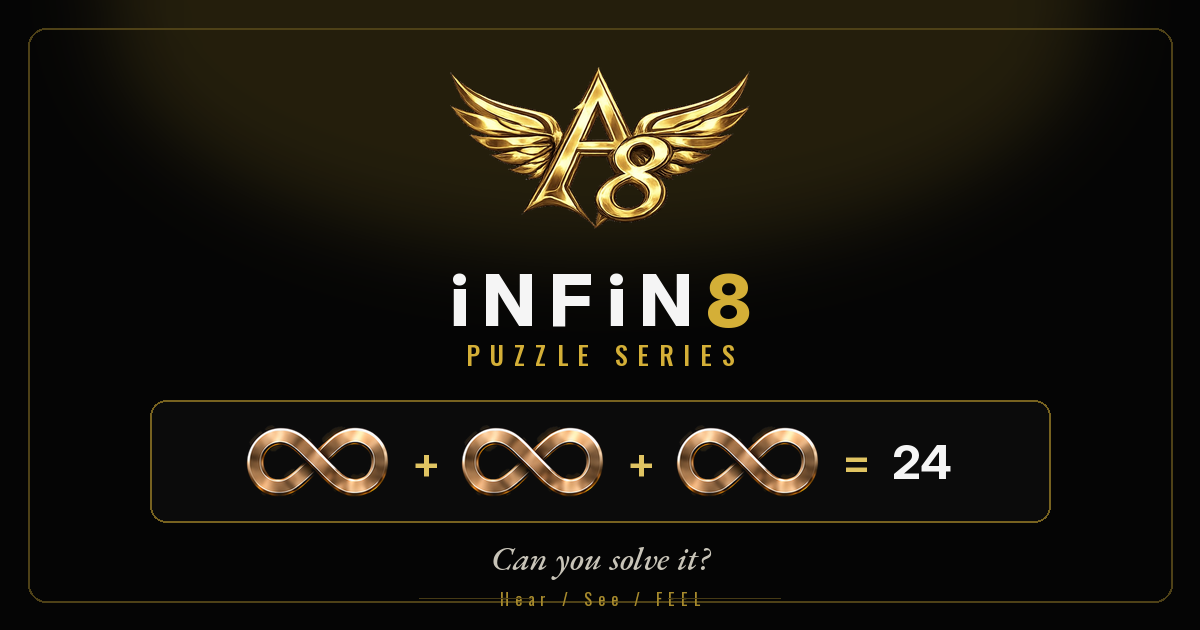
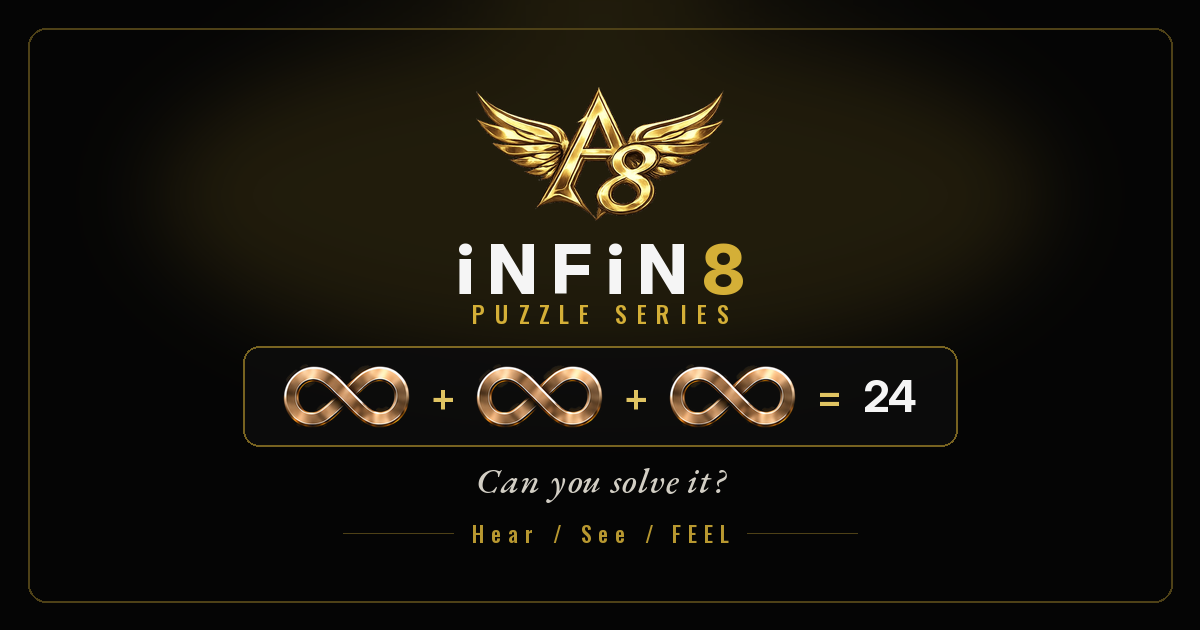
Preview: even out the share-card layout and cache-bust the image (?v=2)
Center the stack in the frame with equal top and bottom margins, consistent
gaps, and the footer clear of the gold border.

diff --git a/index.html b/index.html
@@ -13,7 +13,7 @@
     <!-- Preview share card. Switch these URLs to the live root before a production deploy. -->
     <meta property="og:title" content="iNFiN8 Puzzle Series" />
     <meta property="og:description" content="Can you solve it? New brain puzzles every round by DJ ALEVY8." />
-    <meta property="og:image" content="https://alevy8-hub.github.io/infin8-puzzle/preview-share/og-share.png" />
+    <meta property="og:image" content="https://alevy8-hub.github.io/infin8-puzzle/preview-share/og-share.png?v=2" />
     <meta property="og:image:width" content="1200" />
     <meta property="og:image:height" content="630" />
     <meta property="og:image:type" content="image/png" />
@@ -23,7 +23,7 @@
     <meta name="twitter:card" content="summary_large_image" />
     <meta name="twitter:title" content="iNFiN8 Puzzle Series" />
     <meta name="twitter:description" content="Can you solve it? New brain puzzles every round by DJ ALEVY8." />
-    <meta name="twitter:image" content="https://alevy8-hub.github.io/infin8-puzzle/preview-share/og-share.png" />
+    <meta name="twitter:image" content="https://alevy8-hub.github.io/infin8-puzzle/preview-share/og-share.png?v=2" />
   </head>
   <body>
     <div id="root"></div>

diff --git a/scripts/make-og-share.py b/scripts/make-og-share.py
@@ -6,11 +6,19 @@ from pathlib import Path
 from PIL import Image, ImageDraw, ImageFilter, ImageFont
 
 W, H = 1200, 630
-BG = (5, 5, 5, 255)
+BG = (5, 5, 5)
 GOLD = (212, 175, 55, 255)
 GOLD_SOFT = (224, 196, 98, 255)
 CREAM = (245, 245, 245, 255)
-CREAM_DIM = (200, 196, 184, 255)
+CREAM_DIM = (210, 206, 196, 255)
+
+# Frame inset and minimum clear space inside it (also keeps content in X's center-safe area)
+FRAME = 28
+FRAME_W = 2
+CLEAR = 40  # min px from the inner edge of the gold border
+INNER_TOP = FRAME + FRAME_W + CLEAR  # 70
+INNER_BOTTOM = H - FRAME - FRAME_W - CLEAR  # 560
+INNER_H = INNER_BOTTOM - INNER_TOP  # 490
 
 ROOT = Path("/workspace/infin8-puzzle")
 LOGO = Path("/workspace/music/a8-master-logo-clean.png")
@@ -21,8 +29,13 @@ INTER = "/usr/share/fonts/truetype/sand-box/google/Inter/Inter-VariableFont_opsz
 GARAMOND = "/usr/share/fonts/truetype/sand-box/google/EB Garamond/EBGaramond-Italic-VariableFont_wght.ttf"
 OSWALD = "/usr/share/fonts/truetype/sand-box/google/Oswald/Oswald-VariableFont_wght.ttf"
 
+# Consistent gap between major blocks; tighter gap inside the wordmark + series pair
+GAP = 22
+PAIR_GAP = 10
+BOX_PAD_Y = 18
 
-def var_font(path: str, size: int, weight: int, axes_prefix: list[int] | None = None) -> ImageFont.FreeTypeFont:
+
+def var_font(path: str, size: int, weight: int) -> ImageFont.FreeTypeFont:
     font = ImageFont.truetype(path, size)
     try:
         axes = font.get_variation_axes()
@@ -41,145 +54,241 @@ def var_font(path: str, size: int, weight: int, axes_prefix: list[int] | None = 
     return font
 
 
-def trim(im: Image.Image, pad: int = 0) -> Image.Image:
+def trim(im: Image.Image) -> Image.Image:
     if im.mode != "RGBA":
         im = im.convert("RGBA")
     bbox = im.split()[-1].getbbox()
-    if not bbox:
-        return im
-    im = im.crop(bbox)
-    if pad:
-        canvas = Image.new("RGBA", (im.width + pad * 2, im.height + pad * 2), (0, 0, 0, 0))
-        canvas.paste(im, (pad, pad), im)
-        return canvas
-    return im
+    return im.crop(bbox) if bbox else im
 
 
-def draw_centered_text(draw: ImageDraw.ImageDraw, xy, text, font, fill, tracking=0):
-    x, y = xy
-    if not tracking:
-        draw.text((x, y), text, font=font, fill=fill, anchor="mm")
-        return
+def tracked_size(draw: ImageDraw.ImageDraw, text: str, font, tracking: int) -> tuple[int, int, int]:
+    """Return (width, top_bearing, bottom_bearing) relative to a midline y=0 using anchor mm."""
+    # Measure with a dummy draw at origin, using the font's bbox
+    xs, tops, bottoms = [], [], []
+    x = 0
+    for i, ch in enumerate(text):
+        bbox = draw.textbbox((0, 0), ch, font=font)
+        w = bbox[2] - bbox[0]
+        xs.append(w)
+        # Use mm anchor bbox at (0,0)
+        b = draw.textbbox((0, 0), ch, font=font, anchor="mm")
+        tops.append(b[1])
+        bottoms.append(b[3])
+        x += w + (tracking if i < len(text) - 1 else 0)
+    return x, min(tops), max(bottoms)
+
+
+def draw_tracked(draw: ImageDraw.ImageDraw, cx: float, cy: float, text: str, font, fills, tracking: int) -> None:
     widths = []
     for ch in text:
         bbox = draw.textbbox((0, 0), ch, font=font)
         widths.append(bbox[2] - bbox[0])
     total = sum(widths) + tracking * (len(text) - 1)
-    cx = x - total / 2
-    for ch, w in zip(text, widths, strict=True):
-        draw.text((cx + w / 2, y), ch, font=font, fill=fill, anchor="mm")
-        cx += w + tracking
+    x = cx - total / 2
+    for ch, w, fill in zip(text, widths, fills, strict=True):
+        draw.text((x + w / 2, cy), ch, font=font, fill=fill, anchor="mm")
+        x += w + tracking
 
 
-def paste_center(base: Image.Image, sprite: Image.Image, cx: int, cy: int) -> None:
-    x = int(cx - sprite.width / 2)
-    y = int(cy - sprite.height / 2)
-    base.alpha_composite(sprite, (x, y))
+def content_bbox(im: Image.Image, threshold: int = 12) -> tuple[int, int, int, int]:
+    """Tight bbox of pixels that aren't near-pure background, ignoring the gold frame."""
+    px = im.load()
+    xs, ys = [], []
+    # ignore the frame region so we measure the stack only
+    margin = FRAME + FRAME_W + 4
+    for y in range(margin, H - margin):
+        for x in range(margin, W - margin):
+            r, g, b = px[x, y][:3]
+            # skip near-black and the soft glow (low gold haze)
+            if r <= 18 and g <= 16 and b <= 12:
+                continue
+            # skip very faint glow
+            if r < 40 and g < 32 and b < 16:
+                continue
+            xs.append(x)
+            ys.append(y)
+    if not xs:
+        return (0, 0, 0, 0)
+    return min(xs), min(ys), max(xs), max(ys)
 
 
 def main() -> None:
-    img = Image.new("RGBA", (W, H), BG)
-    # soft gold glow at the top, like the game
-    glow = Image.new("RGBA", (W, H), (0, 0, 0, 0))
-    gdraw = ImageDraw.Draw(glow)
-    gdraw.ellipse((W // 2 - 520, -240, W // 2 + 520, 280), fill=(212, 175, 55, 38))
-    glow = glow.filter(ImageFilter.GaussianBlur(48))
-    img = Image.alpha_composite(img, glow)
-
-    draw = ImageDraw.Draw(img)
-
-    # thin gold frame
-    draw.rounded_rectangle((28, 28, W - 28, H - 28), radius=18, outline=(212, 175, 55, 90), width=2)
+    # Work on a transparent layer so we can measure the stack independently, then composite
+    stack = Image.new("RGBA", (W, H), (0, 0, 0, 0))
+    draw = ImageDraw.Draw(stack)
 
     logo = trim(Image.open(LOGO))
-    logo_w = 300
+    logo_w = 248
     logo_h = int(logo.height * (logo_w / logo.width))
     logo = logo.resize((logo_w, logo_h), Image.Resampling.LANCZOS)
-    paste_center(img, logo, W // 2, 148)
 
-    word = var_font(INTER, 72, 800)
-    # draw iNFiN in cream and 8 in gold, with tracking
+    word = var_font(INTER, 68, 800)
+    series = var_font(OSWALD, 24, 500)
+    prompt = var_font(GARAMOND, 36, 500)
+    footer = var_font(OSWALD, 22, 500)
+    plus = var_font(INTER, 40, 600)
+    equals = var_font(INTER, 40, 600)
+    num = var_font(INTER, 44, 700)
+
     brand = "iNFiN8"
-    tracking = 14
-    widths = []
-    for ch in brand:
-        bbox = draw.textbbox((0, 0), ch, font=word)
-        widths.append(bbox[2] - bbox[0])
-    total = sum(widths) + tracking * (len(brand) - 1)
-    cx = W / 2 - total / 2
-    y_brand = 300
-    for ch, w in zip(brand, widths, strict=True):
-        fill = GOLD if ch == "8" else CREAM
-        draw.text((cx + w / 2, y_brand), ch, font=word, fill=fill, anchor="mm")
-        cx += w + tracking
+    brand_fills = [GOLD if ch == "8" else CREAM for ch in brand]
+    series_text = "PUZZLE SERIES"
+    prompt_text = "Can you solve it?"
+    foot_text = "Hear / See / FEEL"
 
-    series = var_font(OSWALD, 26, 500)
-    draw_centered_text(draw, (W / 2, 354), "PUZZLE SERIES", series, GOLD, tracking=10)
-
-    # equation card
-    box = (150, 400, W - 150, 522)
-    draw.rounded_rectangle(box, radius=16, outline=(212, 175, 55, 140), width=2, fill=(12, 12, 12, 230))
+    brand_w, brand_top, brand_bot = tracked_size(draw, brand, word, 14)
+    brand_h = brand_bot - brand_top
+    series_w, series_top, series_bot = tracked_size(draw, series_text, series, 10)
+    series_h = series_bot - series_top
+    prompt_w, prompt_top, prompt_bot = tracked_size(draw, prompt_text, prompt, 0)
+    prompt_h = prompt_bot - prompt_top
+    foot_w, foot_top, foot_bot = tracked_size(draw, foot_text, footer, 7)
+    foot_h = foot_bot - foot_top
 
     inf = trim(Image.open(INFINITY))
-    # scale infinity to a consistent visual height
-    target_h = 72
+    target_h = 64
     inf = inf.resize((int(inf.width * (target_h / inf.height)), target_h), Image.Resampling.LANCZOS)
+    plus_w = draw.textbbox((0, 0), "+", font=plus)[2] - draw.textbbox((0, 0), "+", font=plus)[0]
+    eq_w = draw.textbbox((0, 0), "=", font=equals)[2] - draw.textbbox((0, 0), "=", font=equals)[0]
+    num_w = draw.textbbox((0, 0), "24", font=num)[2] - draw.textbbox((0, 0), "24", font=num)[0]
+    row_gap = 20
+    row_w = inf.width * 3 + plus_w * 2 + eq_w + num_w + row_gap * 6
+    box_h = target_h + BOX_PAD_Y * 2
+    box_w = row_w + 80
 
-    plus = var_font(INTER, 44, 600)
-    equals = var_font(INTER, 44, 600)
-    num = var_font(INTER, 48, 700)
+    # Block heights (logo, brand pair, box, prompt, footer)
+    brand_pair_h = brand_h + PAIR_GAP + series_h
+    blocks = [logo_h, brand_pair_h, box_h, prompt_h, foot_h]
+    stack_h = sum(blocks) + GAP * (len(blocks) - 1)
 
-    # measure row: inf + plus + inf + plus + inf + equals + 24
-    plus_w = draw.textbbox((0, 0), "+", font=plus)[2]
-    eq_w = draw.textbbox((0, 0), "=", font=equals)[2]
-    num_w = draw.textbbox((0, 0), "24", font=num)[2]
-    gap = 22
-    row_w = inf.width * 3 + plus_w * 2 + eq_w + num_w + gap * 6
-    x = int((W - row_w) / 2)
-    cy = 461
+    if stack_h > INNER_H:
+        raise SystemExit(f"stack {stack_h}px taller than inner {INNER_H}px")
+
+    y = INNER_TOP + (INNER_H - stack_h) / 2
+    cx = W / 2
+
+    # 1. logo
+    logo_top = y
+    stack.alpha_composite(logo, (int(cx - logo.width / 2), int(round(y))))
+    y += logo_h + GAP
+
+    # 2. wordmark + series (tighter internal gap)
+    brand_cy = y - brand_top  # so the top of the glyphs sits at y
+    draw_tracked(draw, cx, brand_cy, brand, word, brand_fills, 14)
+    y += brand_h + PAIR_GAP
+    series_cy = y - series_top
+    draw_tracked(draw, cx, series_cy, series_text, series, [GOLD] * len(series_text), 10)
+    y += series_h + GAP
+
+    # 3. equation box
+    box_top = y
+    box_left = cx - box_w / 2
+    box_right = cx + box_w / 2
+    box_bottom = y + box_h
+    draw.rounded_rectangle(
+        (box_left, box_top, box_right, box_bottom),
+        radius=16,
+        outline=(212, 175, 55, 140),
+        width=2,
+        fill=(12, 12, 12, 230),
+    )
+    row_x = int(cx - row_w / 2)
+    row_cy = int(round(y + box_h / 2))
 
     def place_inf(x0: int) -> int:
-        paste_center(img, inf, x0 + inf.width // 2, cy)
-        return x0 + inf.width + gap
+        stack.alpha_composite(inf, (x0, int(row_cy - inf.height / 2)))
+        return x0 + inf.width + row_gap
 
-    def place_text(x0: int, ch: str, font, color=GOLD_SOFT) -> int:
+    def place_text(x0: int, ch: str, font, color) -> int:
         bbox = draw.textbbox((0, 0), ch, font=font)
         tw = bbox[2] - bbox[0]
-        draw.text((x0 + tw / 2, cy), ch, font=font, fill=color, anchor="mm")
-        return x0 + tw + gap
+        draw.text((x0 + tw / 2, row_cy), ch, font=font, fill=color, anchor="mm")
+        return x0 + tw + row_gap
 
-    x = place_inf(x)
-    x = place_text(x, "+", plus)
-    x = place_inf(x)
-    x = place_text(x, "+", plus)
-    x = place_inf(x)
-    x = place_text(x, "=", equals)
-    place_text(x, "24", num, CREAM)
+    row_x = place_inf(row_x)
+    row_x = place_text(row_x, "+", plus, GOLD_SOFT)
+    row_x = place_inf(row_x)
+    row_x = place_text(row_x, "+", plus, GOLD_SOFT)
+    row_x = place_inf(row_x)
+    row_x = place_text(row_x, "=", equals, GOLD_SOFT)
+    place_text(row_x, "24", num, CREAM)
+    y += box_h + GAP
 
-    prompt = var_font(GARAMOND, 34, 500)
-    try:
-        prompt.set_variation_by_axes([500])
-    except Exception:
-        pass
-    draw_centered_text(draw, (W / 2, 558), "Can you solve it?", prompt, CREAM_DIM)
+    # 4. prompt
+    prompt_cy = y - prompt_top
+    draw_tracked(draw, cx, prompt_cy, prompt_text, prompt, [CREAM_DIM] * len(prompt_text), 0)
+    y += prompt_h + GAP
 
-    footer = var_font(OSWALD, 16, 400)
-    # gold rules beside the footer, like the game
-    foot = "Hear / See / FEEL"
-    fb = draw.textbbox((0, 0), foot, font=footer)
-    fw = fb[2] - fb[0]
-    fy = 598
-    draw_centered_text(draw, (W / 2, fy), foot, footer, (212, 175, 55, 200), tracking=6)
-    line_y = fy
-    draw.line((W / 2 - fw / 2 - 130, line_y, W / 2 - fw / 2 - 18, line_y), fill=(212, 175, 55, 80), width=1)
-    draw.line((W / 2 + fw / 2 + 18, line_y, W / 2 + fw / 2 + 130, line_y), fill=(212, 175, 55, 80), width=1)
+    # 5. footer with side rules
+    foot_cy = y - foot_top
+    draw_tracked(draw, cx, foot_cy, foot_text, footer, [(212, 175, 55, 220)] * len(foot_text), 7)
+    # rule width based on measured text, vertically centered on the cap-height midline
+    fw = tracked_size(draw, foot_text, footer, 7)[0]
+    rule_y = foot_cy
+    rule_pad = 18
+    rule_len = 110
+    draw.line(
+        (cx - fw / 2 - rule_pad - rule_len, rule_y, cx - fw / 2 - rule_pad, rule_y),
+        fill=(212, 175, 55, 90),
+        width=1,
+    )
+    draw.line(
+        (cx + fw / 2 + rule_pad, rule_y, cx + fw / 2 + rule_pad + rule_len, rule_y),
+        fill=(212, 175, 55, 90),
+        width=1,
+    )
+    y += foot_h
+    stack_bottom = y
 
-    OUT.parent.mkdir(parents=True, exist_ok=True)
-    # flatten to opaque RGB — Open Graph cards prefer no alpha
-    flat = Image.new("RGB", (W, H), (5, 5, 5))
+    # Background + glow + frame, then the centered stack
+    img = Image.new("RGBA", (W, H), (*BG, 255))
+    glow = Image.new("RGBA", (W, H), (0, 0, 0, 0))
+    gdraw = ImageDraw.Draw(glow)
+    # glow centered on the canvas so it doesn't pull the eye down
+    gdraw.ellipse((W // 2 - 480, H // 2 - 320, W // 2 + 480, H // 2 + 80), fill=(212, 175, 55, 34))
+    glow = glow.filter(ImageFilter.GaussianBlur(52))
+    img = Image.alpha_composite(img, glow)
+    frame = ImageDraw.Draw(img)
+    frame.rounded_rectangle(
+        (FRAME, FRAME, W - FRAME, H - FRAME),
+        radius=18,
+        outline=(212, 175, 55, 90),
+        width=FRAME_W,
+    )
+    img = Image.alpha_composite(img, stack)
+
+    flat = Image.new("RGB", (W, H), BG)
     flat.paste(img, mask=img.split()[-1])
+    OUT.parent.mkdir(parents=True, exist_ok=True)
     flat.save(OUT, "PNG", optimize=True)
+
+    # Measure from the actual pixels of the stack (no frame/glow)
+    # Use the designed stack bounds plus a pixel bbox of nontransparent stack pixels
+    alpha = stack.split()[-1]
+    bbox = alpha.getbbox()
+    assert bbox
+    left, top, right, bottom = bbox
+    inner_left = FRAME + FRAME_W
+    inner_right = W - FRAME - FRAME_W
+    inner_top = FRAME + FRAME_W
+    inner_bottom = H - FRAME - FRAME_W
+    margins = {
+        "top_from_border": top - inner_top,
+        "bottom_from_border": inner_bottom - bottom,
+        "left_from_border": left - inner_left,
+        "right_from_border": inner_right - right,
+        "stack_height": bottom - top,
+        "inner_height": inner_bottom - inner_top,
+        "top_bottom_delta": abs((top - inner_top) - (inner_bottom - bottom)),
+        "logo": (logo_w, logo_h),
+        "stack_designed": (logo_top, stack_bottom),
+    }
     print(f"wrote {OUT} {OUT.stat().st_size} bytes {flat.size}")
+    print("margins (px from inner gold border):", margins)
+    if margins["top_from_border"] < CLEAR or margins["bottom_from_border"] < CLEAR:
+        raise SystemExit("clearance below 40px")
+    if margins["top_bottom_delta"] > 6:
+        raise SystemExit(f"top/bottom not even: delta {margins['top_bottom_delta']}px")
 
 
 if __name__ == "__main__":
